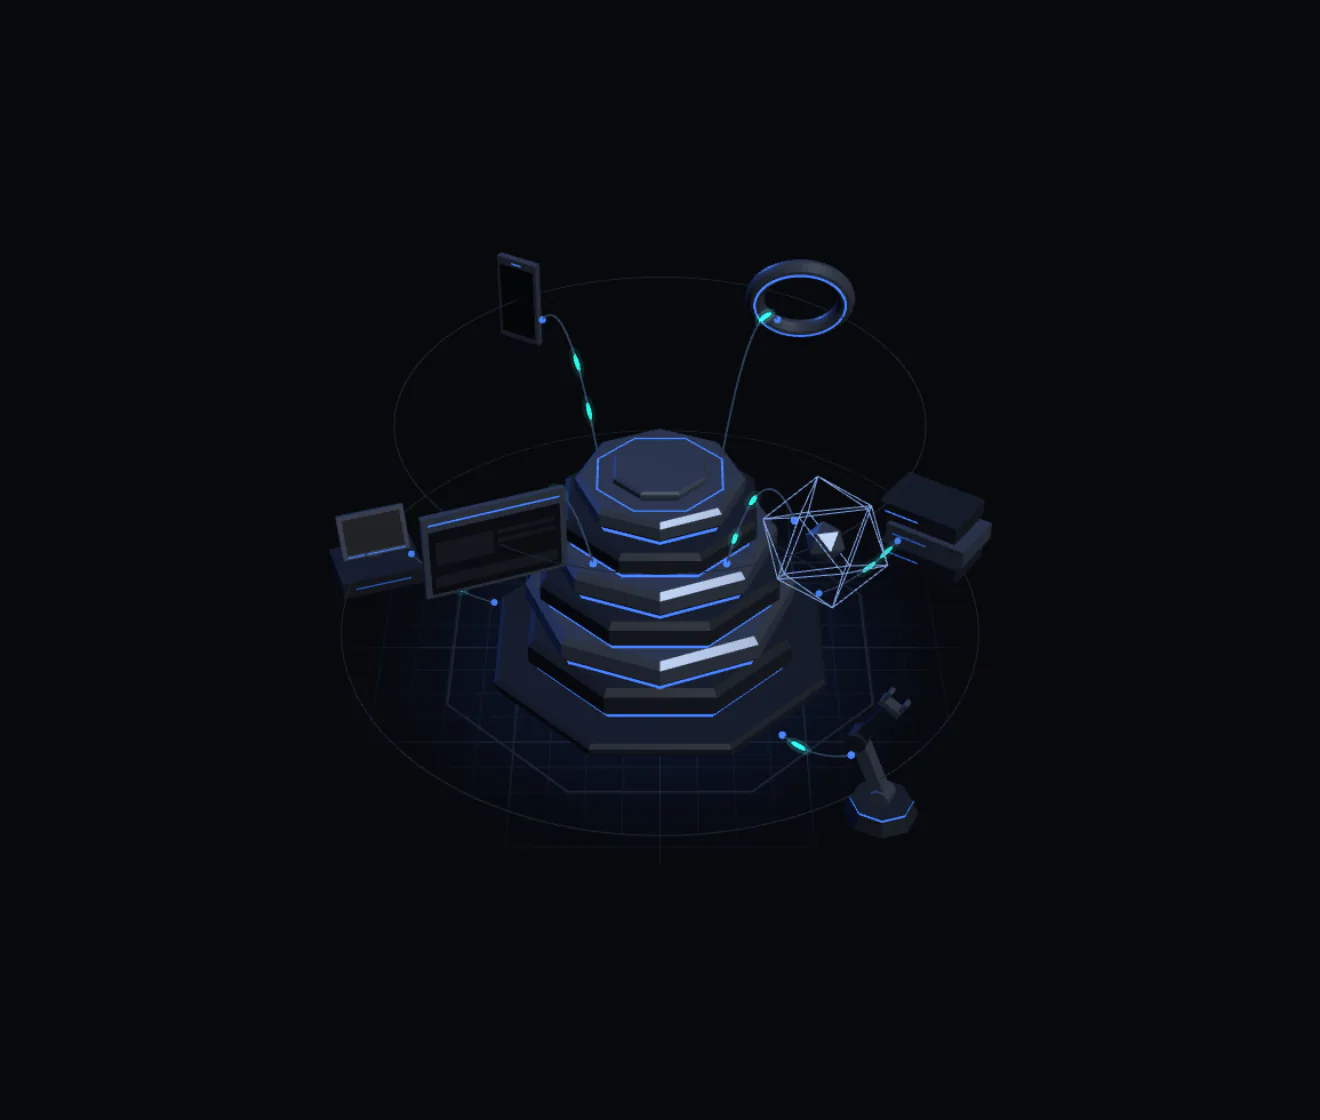
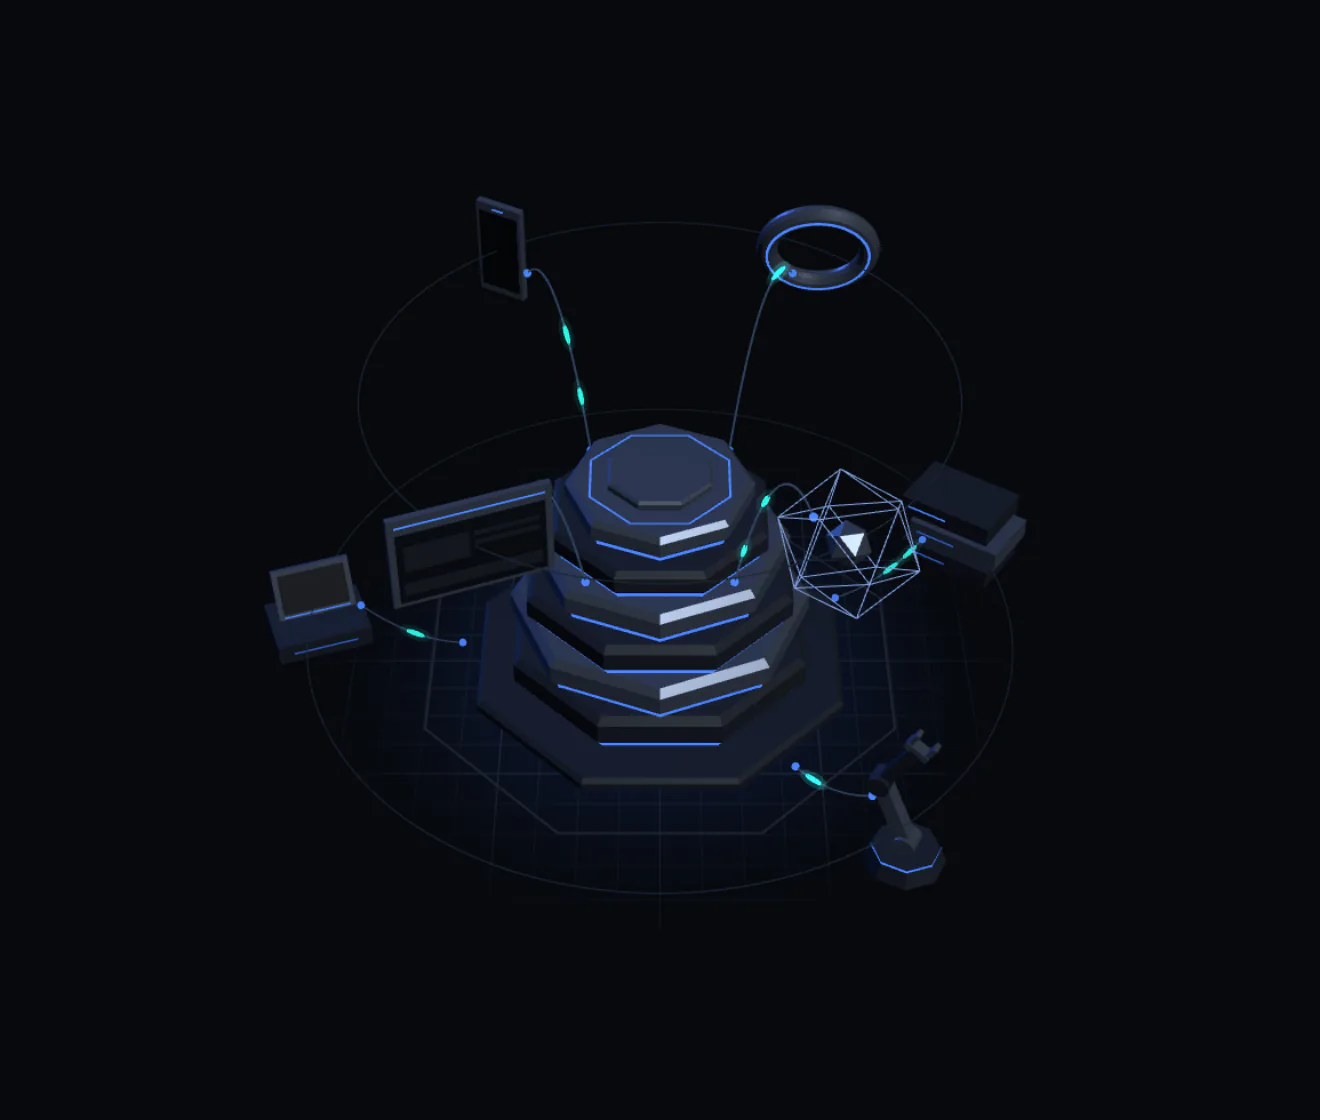
Hero scene: scale the composition into its margins, and fill the height
The coordinator's review: beside a 72px headline the object read as
under-filled, taking about the middle half of the field.

Found with the projection script, not by eye. 660x560 is now the frame it is
composed for, and 480x560 is the safe area nothing important may leave. The
camera came in (14.6 -> 13.1) and rose (0.66 -> 0.72 rad), the target lifted
to 0.88, and the inner tier rose to y 2.25 with its arc lifted to match:
raising the camera spends the frame's spare height without touching the side
margins, which only the orbits' radii set.

At 480 with the pointer at either parallax extreme, on bounding spheres:
modules >= 13px inside every edge (the brief asked 12-16), rings >= 63px,
and the fade still ends >= 23px inside, so no grid line reaches an edge. At
660: sides >= 103px, top >= 65px, bottom >= 50px. On rendered frames at
t = 0 and t = 30s the object grew from 51% x 57% of the 660 frame to
58% x 67%, and the edge band stayed exactly #07090D, deviation 0.

POS moved 250 -> 265 degrees: at the larger scale it and the web panel sat at
the same screen height and touched.

Posters re-rendered over v1 (never deployed): AVIF 5.7 / 11.5KB, WebP 10.3 /
24.8KB. Probe: 22/22, the nearest lit pixel 84px from a canvas edge, the
chunk 138.1KB on the wire, CLS 0 at 1440, 390 and as a phone.

diff --git a/components/field/scene.ts b/components/field/scene.ts
@@ -106,19 +106,23 @@ const SLOW_FOR_MS = 2000;
 
 /* ── Camera: a fixed vertical FOV, orbiting a target above the core ─────── */
 const FOV = 30;
-const CAM_DIST = 14.6;
-const CAM_ELEV = 0.66; // radians above the horizon: a raised, drawing-board view
-const CAM_TARGET_Y = 0.8;
+const CAM_DIST = 13.1;
+const CAM_ELEV = 0.72; // radians above the horizon: a raised, drawing-board view
+const CAM_TARGET_Y = 0.88;
 
 /* The scene DISSOLVES into the page; it never stops at a box. The canvas
    clears to the field's own ground, and the floor's grid and light pool fade
    to exactly that ground by FLOOR_FADE.to. Framed with the camera above, at
-   480x560 (the narrowest field) and at both parallax extremes, the fade circle
-   ends >= 43px inside every edge, the rings >= 80px, and every module at every
-   orbit angle >= 35px, on bounding spheres (a projection check outside the
-   repo, confirmed on rendered frames, 2026-09-16). The camera's height spends the frame's spare vertical room:
-   raising it does not move the side margins, which only the orbits' radii set. So no line, ring or module reaches a canvas edge at 480–660px
-   wide. */
+   660x560 — the primary frame — and inside 480x560, the narrowest the field
+   goes, which is the safe area nothing important may leave. At 480, with the
+   pointer at either parallax extreme, the fade circle ends >= 23px inside
+   every edge, the rings >= 63px, and every module at every orbit angle
+   >= 13px, on bounding spheres; at 660 the same objects clear the sides by
+   >= 103px and the top and bottom by >= 65px and >= 50px (a projection check
+   outside the repo, confirmed on rendered frames, 2026-09-16). The camera's
+   height spends the frame's spare vertical room: raising it does not move the
+   side margins, which only the orbits' radii set. So no line, ring or module
+   reaches a canvas edge at 480–660px wide. */
 const FLOOR_FADE = { from: 1.1, to: 2.8 };
 const PARALLAX_AZ = 0.11; // radians of yaw at the pointer's extreme
 const PARALLAX_EL = 0.045; // radians of pitch at the pointer's extreme
@@ -145,7 +149,7 @@ type Tier = {
   from: { r: number; y: number }; // where the connections leave the core
   lift: number; // control-point height of each connection
 };
-const INNER: Tier = { radius: 1.75, y: 2.05, speed: 0.07, phase: 0, from: { r: 0.77, y: 1.26 }, lift: 2.45 };
+const INNER: Tier = { radius: 1.75, y: 2.25, speed: 0.07, phase: 0, from: { r: 0.77, y: 1.26 }, lift: 2.65 };
 const OUTER: Tier = { radius: 2.25, y: 0.36, speed: -0.045, phase: 0, from: { r: 1.3, y: 0.06 }, lift: 0.05 };
 
 /* Pulses: two per connection, one outward and one back. */
@@ -437,7 +441,7 @@ export function createScene(canvas: HTMLCanvasElement, opts: SceneOptions = {}):
   const outerSlots: Slot[] = [
     { build: buildRobot, angle: deg(40), yaw: -0.65, scale: 1.55 },
     { build: buildErp, angle: deg(115), yaw: -0.5, scale: 1.4 },
-    { build: buildPos, angle: deg(250), yaw: 0.5, scale: 1.4 },
+    { build: buildPos, angle: deg(265), yaw: 0.5, scale: 1.4 },
   ];
 
   type BuiltTier = {

diff --git a/CLAUDE.md b/CLAUDE.md
@@ -726,11 +726,14 @@ at the end, which means nobody has decided yet.
     review, 2026-09-16). The field has no border, and its background is the
     ground, `#07090D`, which is also the canvas's clear colour. The grid floor
     and the blue pool under the core fade to exactly that ground by r = 2.8
-    (`FLOOR_FADE` in `scene.ts`). The camera frames the system so that at
-    480x560, with the pointer at either parallax extreme, the fade ends at
-    least 43px inside every edge, the rings at least 80px, and every module,
-    at every orbit angle, at least 35px, on bounding spheres. That was checked
-    by projection and on rendered frames at t = 0, 20, 30 and 45s. The poster
+    (`FLOOR_FADE` in `scene.ts`). **660x560 is the frame it is composed for**,
+    and 480x560 — the narrowest the field goes — is the safe area nothing
+    important may leave. With the pointer at either parallax extreme, at 480
+    the fade ends at least 23px inside every edge, the rings at least 63px and
+    every module, at every orbit angle, at least 13px, on bounding spheres; at
+    660 the same objects clear the sides by at least 103px and the top and
+    bottom by at least 65px and 50px. That was checked by projection and on
+    rendered frames at t = 0, 20, 30 and 45s. The poster
     script refuses a capture whose 16px edge band is not the ground, and the
     probe reads the live canvas's edge band. It is done in the scene itself:
     no overlay and no post-processing, since anything painted over the poster
@@ -1044,8 +1047,8 @@ imports from `three` tree-shake under Turbopack with about 42KB to spare. If a
 three bump or a new import pushes it past 180KB, import from
 `three/src/...` module paths.
 
-**The posters:** `scene-poster-v1-660.avif` 4.9KB, `-1320.avif` 10.3KB,
-`-660.webp` 9.0KB, `-1320.webp` 22.2KB (AVIF 4:4:4 at quality 56, WebP 82).
+**The posters:** `scene-poster-v1-660.avif` 5.7KB, `-1320.avif` 11.5KB,
+`-660.webp` 10.3KB, `-1320.webp` 24.8KB (AVIF 4:4:4 at quality 56, WebP 82).
 The step-3 field posters they replace were 33.6KB and 87.4KB as AVIF. A dark
 frame of hard-edged shapes that dissolves into the ground compresses far
 better than a cloud of points, which takes weight off the LCP path. They were
